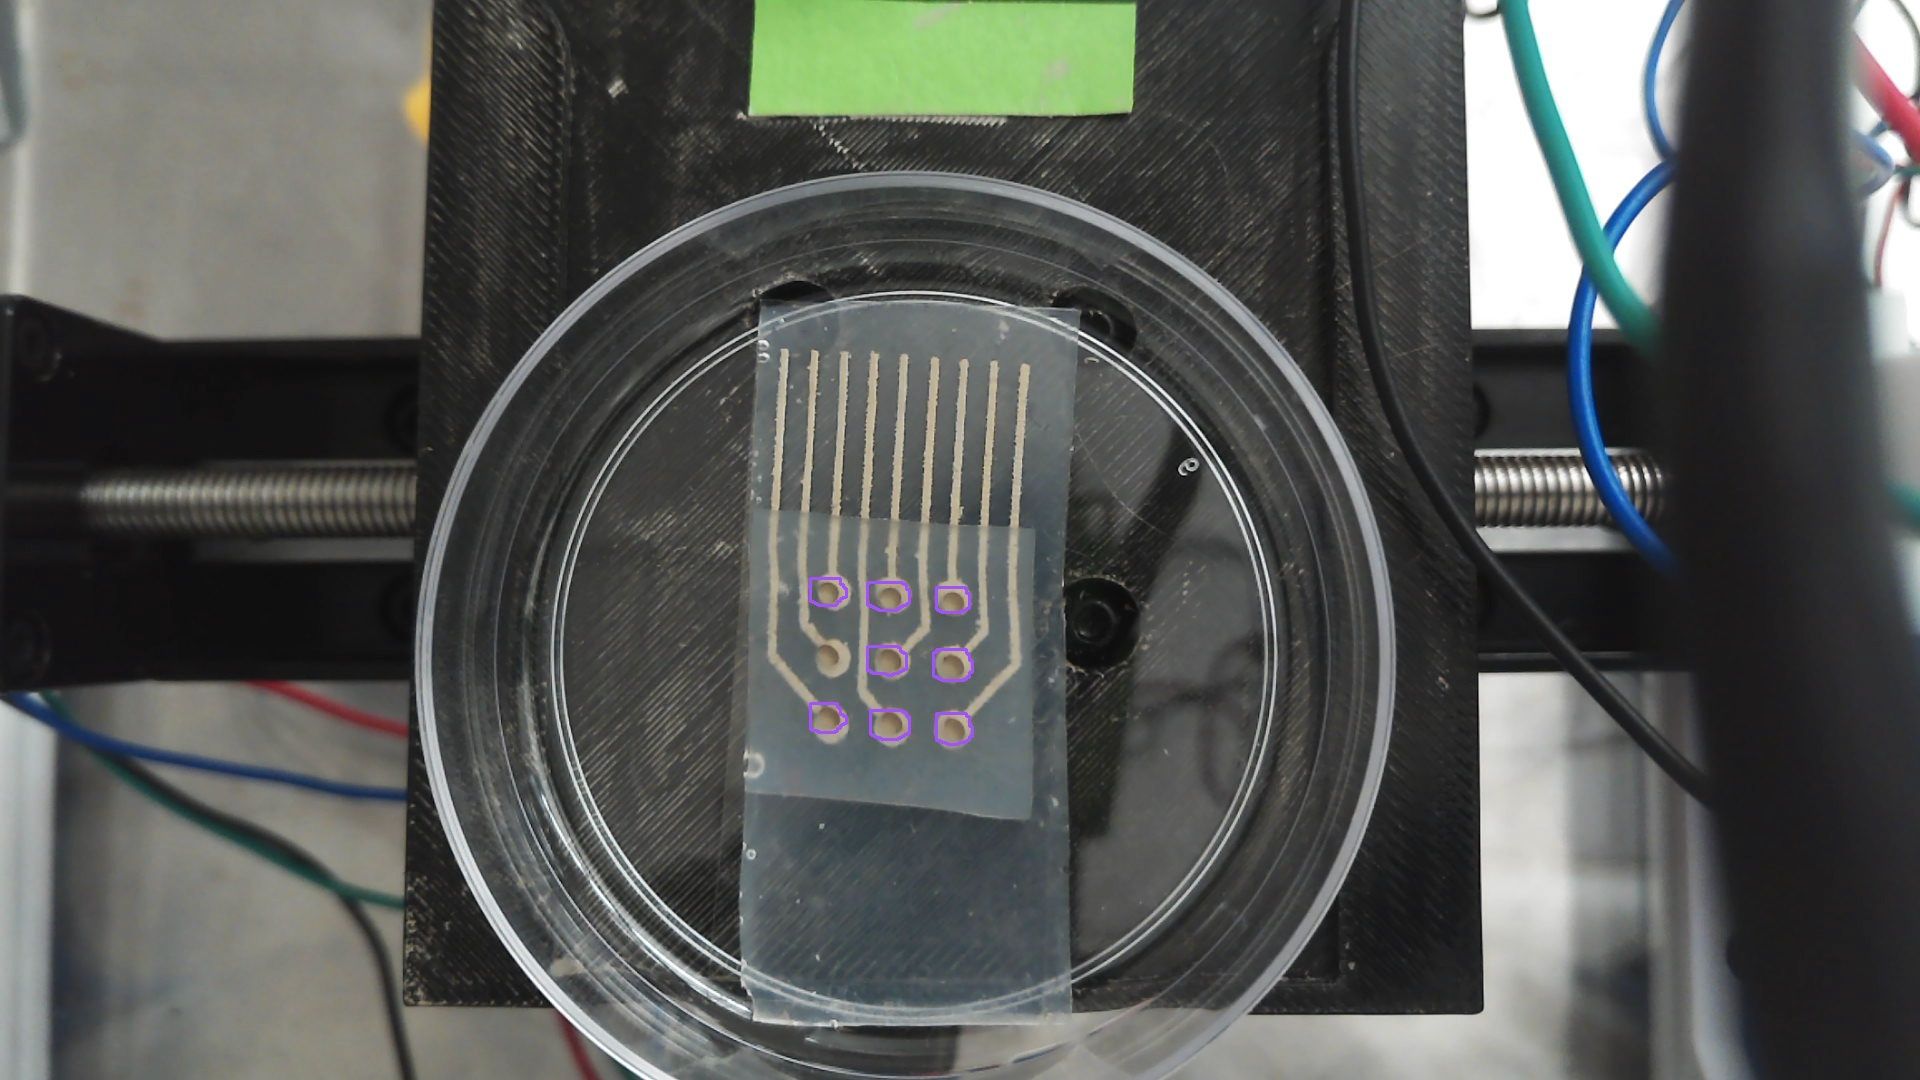
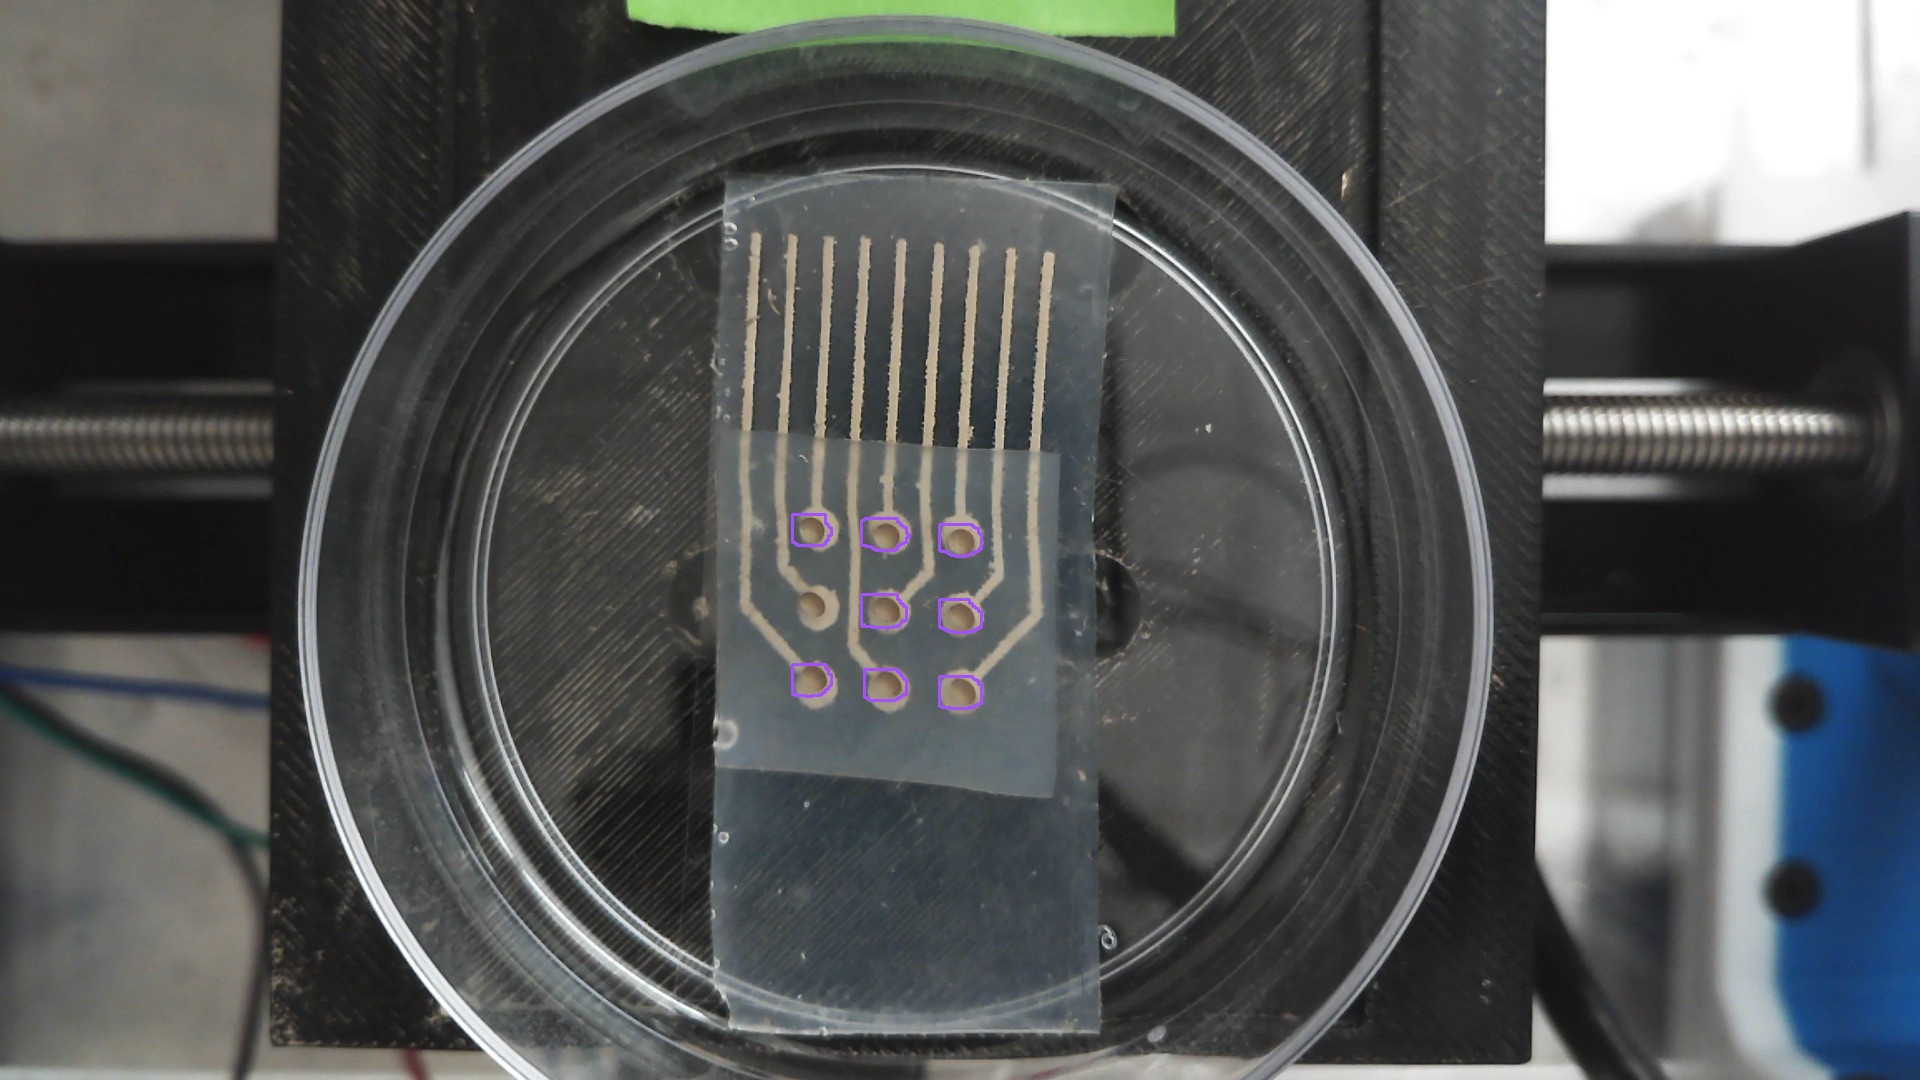
latest updates

diff --git a/livefeed_measurements.py b/livefeed_measurements.py
@@ -44,8 +44,8 @@ def detect_green_region(frame: np.ndarray, real_length: float, real_width: float
     return None
 
 def main():
-    r_length = 25.6
-    r_width = 6.96
+    r_length = 30
+    r_width = 10
     image_path = "frames/screenshot_3_seconds.png"
     image = cv2.imread(image_path)
 

diff --git a/sendPython.py b/sendPython.py
@@ -79,4 +79,4 @@ def sendToPoints(x_center = 0, y_center = 0, points = [], z_dist = 0, homing = F
 # def extrude():
 #     print("Work in Progress!")
 
-sendToPoints(extrusion=True)
+#sendToPoints(extrusion=True)
